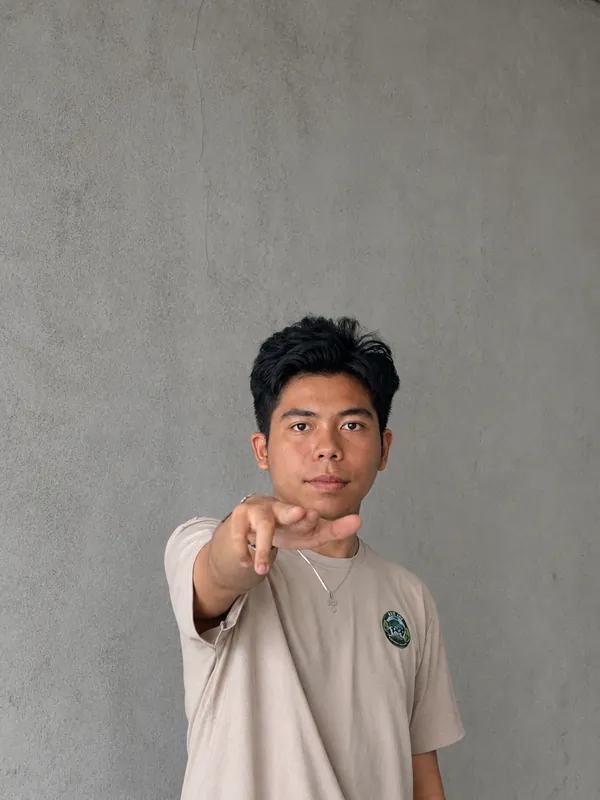
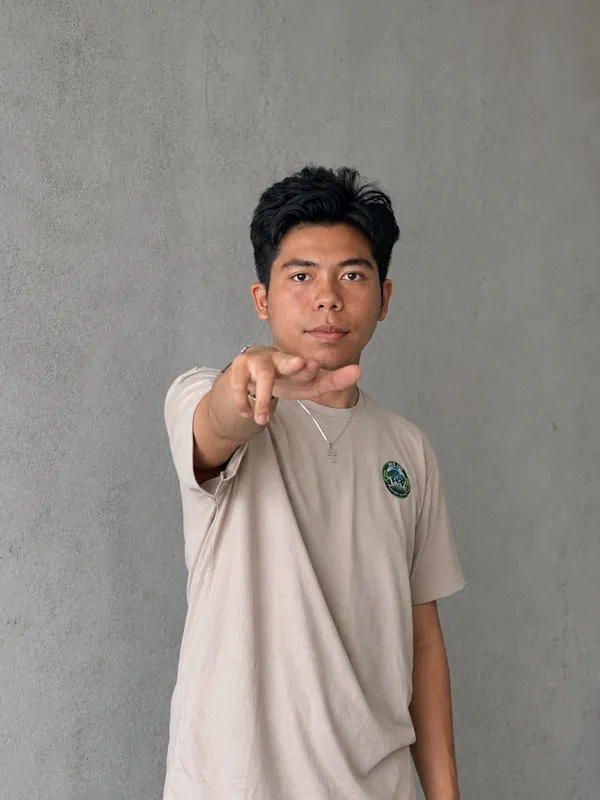
fix: pas foto tiga mahasiswa dinaikkan, teks tidak bisa diseleksi mouse
- 230211060074, 230211050022, 230911020066: dipotong ulang dari foto asli agar puncak kepala di
  ±21% tinggi bingkai (sebelumnya 28–40%, terlalu banyak dinding di atas); 230911020035 tetap
- style.css: user-select none pada body; input/textarea/select tetap bisa diseleksi

Claude-Session: https://claude.ai/code/session_01RqTa7uQfJELZ19R5bSiHDn

diff --git a/penduduk.html b/penduduk.html
@@ -14,7 +14,7 @@
   <link href="https://fonts.googleapis.com/css2?family=Archivo:wdth,wght@62..125,500..800&family=Plus+Jakarta+Sans:wght@400;500;600;700&display=swap" rel="stylesheet" />
 
   <script src="https://cdn.tailwindcss.com"></script>
-  <link rel="stylesheet" href="assets/css/style.css?v=2885849e" />
+  <link rel="stylesheet" href="assets/css/style.css?v=1a606116" />
   <script src="https://unpkg.com/lucide@latest/dist/umd/lucide.js"></script>
   <script src="https://cdn.jsdelivr.net/npm/papaparse@5.4.1/papaparse.min.js"></script>
   <script src="https://cdn.jsdelivr.net/npm/chart.js@4.4.4/dist/chart.umd.min.js"></script>

diff --git a/cek-data.html b/cek-data.html
@@ -16,7 +16,7 @@
   <link href="https://fonts.googleapis.com/css2?family=Archivo:wdth,wght@62..125,500..800&family=Plus+Jakarta+Sans:wght@400;500;600;700&display=swap" rel="stylesheet" />
 
   <script src="https://cdn.tailwindcss.com"></script>
-  <link rel="stylesheet" href="assets/css/style.css?v=2885849e" />
+  <link rel="stylesheet" href="assets/css/style.css?v=1a606116" />
   <script src="https://unpkg.com/lucide@latest/dist/umd/lucide.js"></script>
   <script src="https://cdn.jsdelivr.net/npm/papaparse@5.4.1/papaparse.min.js"></script>
 </head>

diff --git a/index.html b/index.html
@@ -14,7 +14,7 @@
   <link href="https://fonts.googleapis.com/css2?family=Archivo:wdth,wght@62..125,500..800&family=Plus+Jakarta+Sans:wght@400;500;600;700&display=swap" rel="stylesheet" />
 
   <script src="https://cdn.tailwindcss.com"></script>
-  <link rel="stylesheet" href="assets/css/style.css?v=2885849e" />
+  <link rel="stylesheet" href="assets/css/style.css?v=1a606116" />
   <script src="https://unpkg.com/lucide@latest/dist/umd/lucide.js"></script>
   <script src="https://cdn.jsdelivr.net/npm/papaparse@5.4.1/papaparse.min.js"></script>
 </head>

diff --git a/kkt.html b/kkt.html
@@ -14,7 +14,7 @@
   <link href="https://fonts.googleapis.com/css2?family=Archivo:wdth,wght@62..125,500..800&family=Plus+Jakarta+Sans:wght@400;500;600;700&display=swap" rel="stylesheet" />
 
   <script src="https://cdn.tailwindcss.com"></script>
-  <link rel="stylesheet" href="assets/css/style.css?v=2885849e" />
+  <link rel="stylesheet" href="assets/css/style.css?v=1a606116" />
   <script src="https://unpkg.com/lucide@latest/dist/umd/lucide.js"></script>
   <script src="https://cdn.jsdelivr.net/npm/papaparse@5.4.1/papaparse.min.js"></script>
 </head>

diff --git a/kontak.html b/kontak.html
@@ -14,7 +14,7 @@
   <link href="https://fonts.googleapis.com/css2?family=Archivo:wdth,wght@62..125,500..800&family=Plus+Jakarta+Sans:wght@400;500;600;700&display=swap" rel="stylesheet" />
 
   <script src="https://cdn.tailwindcss.com"></script>
-  <link rel="stylesheet" href="assets/css/style.css?v=2885849e" />
+  <link rel="stylesheet" href="assets/css/style.css?v=1a606116" />
   <script src="https://unpkg.com/lucide@latest/dist/umd/lucide.js"></script>
   <script src="https://cdn.jsdelivr.net/npm/papaparse@5.4.1/papaparse.min.js"></script>
 </head>

diff --git a/layanan.html b/layanan.html
@@ -14,7 +14,7 @@
   <link href="https://fonts.googleapis.com/css2?family=Archivo:wdth,wght@62..125,500..800&family=Plus+Jakarta+Sans:wght@400;500;600;700&display=swap" rel="stylesheet" />
 
   <script src="https://cdn.tailwindcss.com"></script>
-  <link rel="stylesheet" href="assets/css/style.css?v=2885849e" />
+  <link rel="stylesheet" href="assets/css/style.css?v=1a606116" />
   <script src="https://unpkg.com/lucide@latest/dist/umd/lucide.js"></script>
   <script src="https://cdn.jsdelivr.net/npm/papaparse@5.4.1/papaparse.min.js"></script>
 </head>

diff --git a/pemerintahan.html b/pemerintahan.html
@@ -14,7 +14,7 @@
   <link href="https://fonts.googleapis.com/css2?family=Archivo:wdth,wght@62..125,500..800&family=Plus+Jakarta+Sans:wght@400;500;600;700&display=swap" rel="stylesheet" />
 
   <script src="https://cdn.tailwindcss.com"></script>
-  <link rel="stylesheet" href="assets/css/style.css?v=2885849e" />
+  <link rel="stylesheet" href="assets/css/style.css?v=1a606116" />
   <script src="https://unpkg.com/lucide@latest/dist/umd/lucide.js"></script>
   <script src="https://cdn.jsdelivr.net/npm/papaparse@5.4.1/papaparse.min.js"></script>
 </head>

diff --git a/profil.html b/profil.html
@@ -14,7 +14,7 @@
   <link href="https://fonts.googleapis.com/css2?family=Archivo:wdth,wght@62..125,500..800&family=Plus+Jakarta+Sans:wght@400;500;600;700&display=swap" rel="stylesheet" />
 
   <script src="https://cdn.tailwindcss.com"></script>
-  <link rel="stylesheet" href="assets/css/style.css?v=2885849e" />
+  <link rel="stylesheet" href="assets/css/style.css?v=1a606116" />
   <script src="https://unpkg.com/lucide@latest/dist/umd/lucide.js"></script>
   <script src="https://cdn.jsdelivr.net/npm/papaparse@5.4.1/papaparse.min.js"></script>
 </head>

diff --git a/wisata-detail.html b/wisata-detail.html
@@ -14,7 +14,7 @@
   <link href="https://fonts.googleapis.com/css2?family=Archivo:wdth,wght@62..125,500..800&family=Plus+Jakarta+Sans:wght@400;500;600;700&display=swap" rel="stylesheet" />
 
   <script src="https://cdn.tailwindcss.com"></script>
-  <link rel="stylesheet" href="assets/css/style.css?v=2885849e" />
+  <link rel="stylesheet" href="assets/css/style.css?v=1a606116" />
   <script src="https://unpkg.com/lucide@latest/dist/umd/lucide.js"></script>
   <script src="https://cdn.jsdelivr.net/npm/papaparse@5.4.1/papaparse.min.js"></script>
 </head>

diff --git a/wisata.html b/wisata.html
@@ -14,7 +14,7 @@
   <link href="https://fonts.googleapis.com/css2?family=Archivo:wdth,wght@62..125,500..800&family=Plus+Jakarta+Sans:wght@400;500;600;700&display=swap" rel="stylesheet" />
 
   <script src="https://cdn.tailwindcss.com"></script>
-  <link rel="stylesheet" href="assets/css/style.css?v=2885849e" />
+  <link rel="stylesheet" href="assets/css/style.css?v=1a606116" />
   <script src="https://unpkg.com/lucide@latest/dist/umd/lucide.js"></script>
   <script src="https://cdn.jsdelivr.net/npm/papaparse@5.4.1/papaparse.min.js"></script>
 </head>

diff --git a/assets/css/style.css b/assets/css/style.css
@@ -57,6 +57,14 @@ body {
   /* clip, bukan hidden: hidden membuat body menjadi wadah scroll sehingga
      header sticky berhenti menempel (terutama di Safari iOS). */
   overflow-x: clip;
+  /* Teks tidak bisa diseleksi dengan mouse/sentuhan; kolom isian (kotak cari Layanan) tetap bisa. */
+  -webkit-user-select: none;
+  user-select: none;
+}
+
+input, textarea, select, [contenteditable] {
+  -webkit-user-select: text;
+  user-select: text;
 }
 
 @media (min-width: 768px) {
